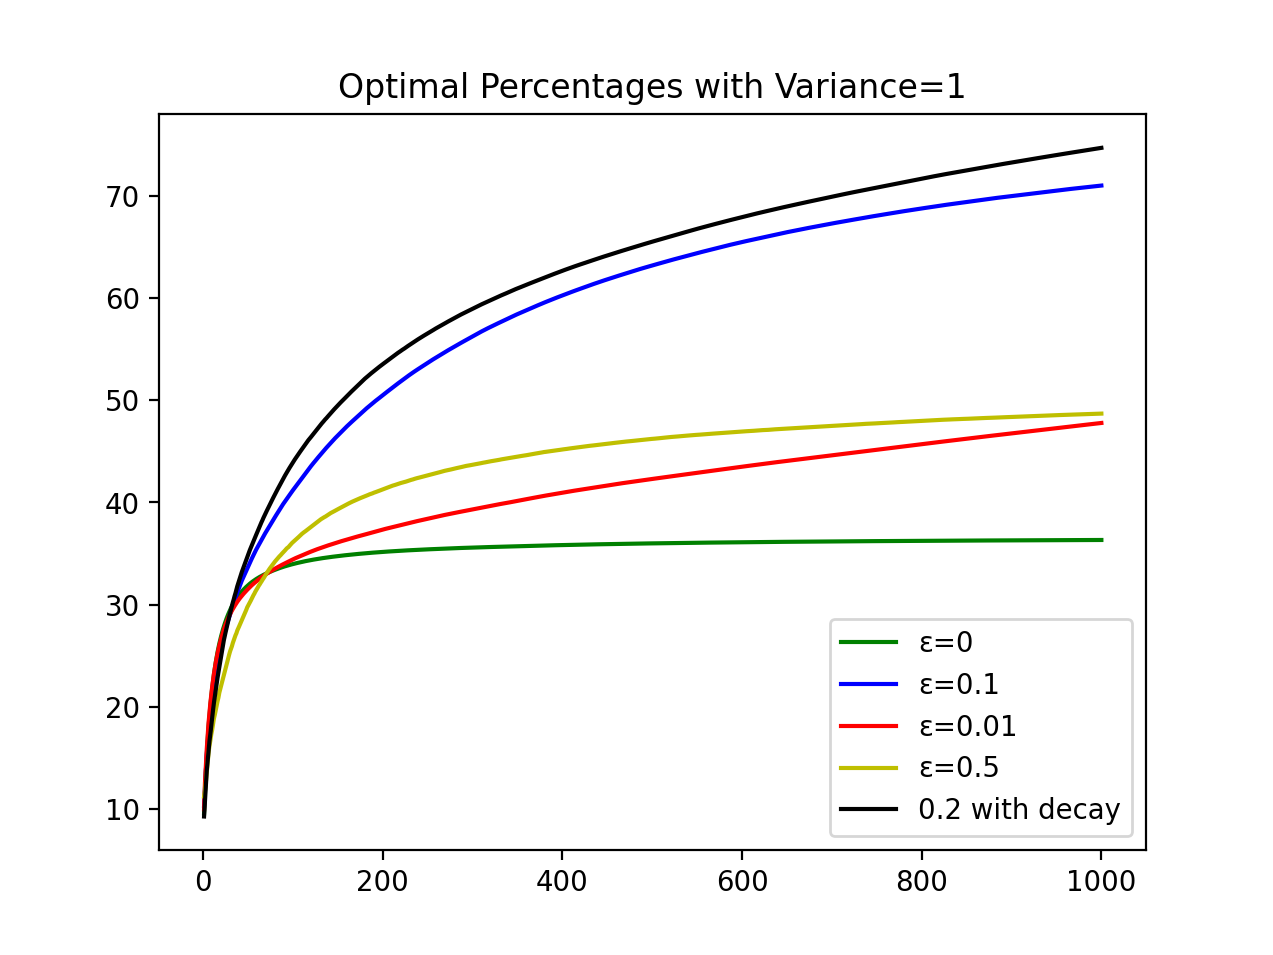
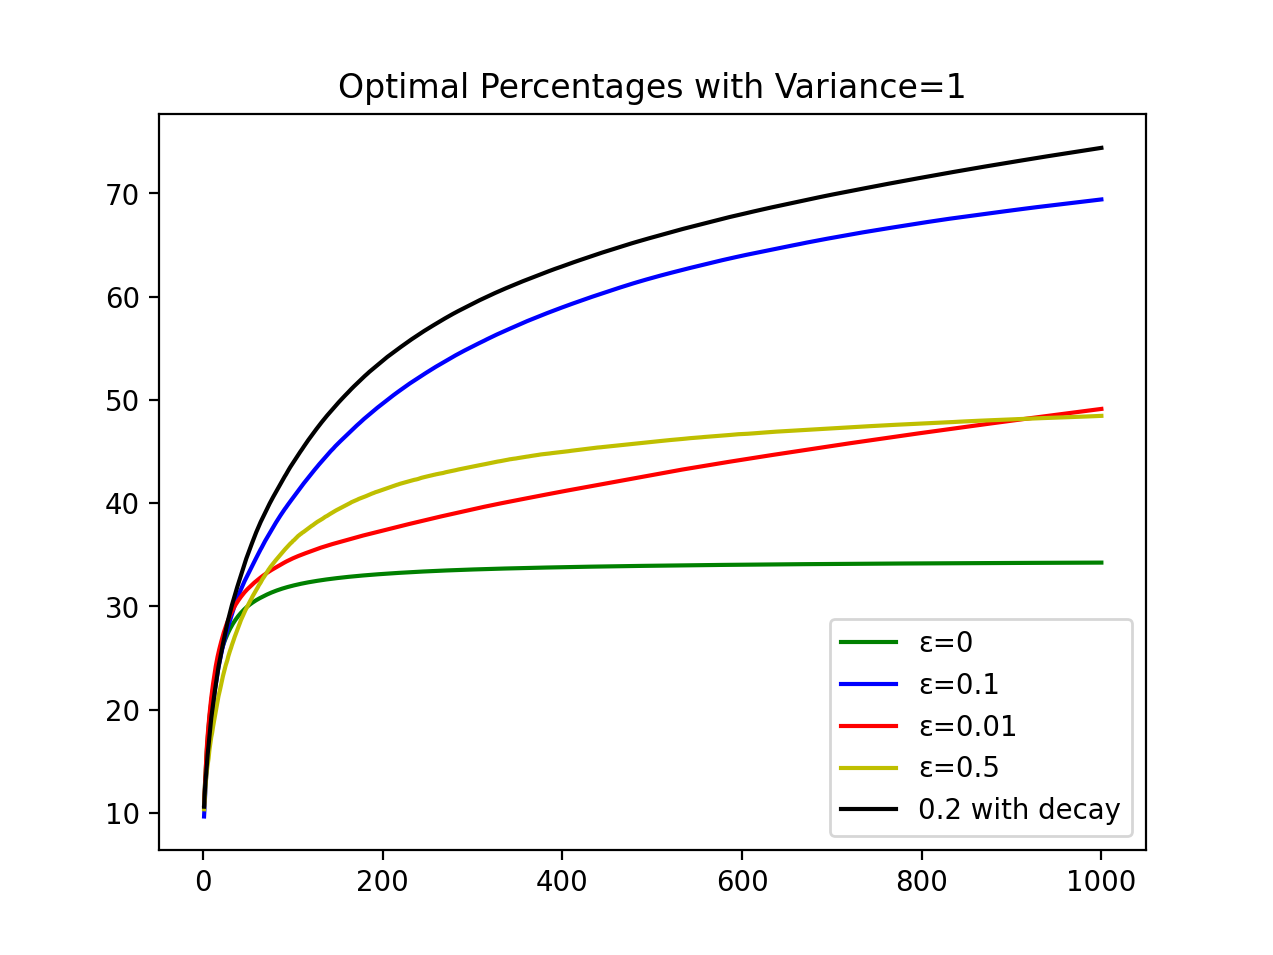
explore first steps

diff --git a/experiments/exploration_exploitation_bandit_stationary.py b/experiments/exploration_exploitation_bandit_stationary.py
@@ -2,6 +2,8 @@ import numpy as np
 import matplotlib.pyplot as plt
 
 
+VARIANCES = [1, 0, 5, 10]
+
 EPSILONS = {
     0: {"color": "-g"},
     0.1: {"color": "-b"},
@@ -14,8 +16,7 @@ EPSILONS = {
 def epsilon_greedy_action(action_values: np.array, epsilon: float) -> int:
     if np.random.random() <= epsilon:
         return np.random.choice(10)
-    else:
-        return np.argmax(action_values)
+    return np.argmax(action_values)
 
 
 def get_epsilons(epsilon, decay, steps):
@@ -40,7 +41,10 @@ def run_single_experiment(epsilon: float, decay=False, variance=1):
     optimal_action_percentage = []
     for i in range(steps):
         epsilon = epsilons[i] if epsilons else epsilon
-        selected_action = epsilon_greedy_action(action_values, epsilon)
+        if i < 10 and variance == 0 and epsilon == 0:
+            selected_action = np.random.choice(10)
+        else:
+            selected_action = epsilon_greedy_action(action_values, epsilon)
         if selected_action == optimal_action:
             optimal_action_count += 1
         actual_reward = np.random.normal(mu[selected_action], variance)
@@ -118,4 +122,5 @@ def run_and_plot_results(variance=1):
 
 
 if __name__ == "__main__":
-    run_and_plot_results()
+    for variance in VARIANCES:
+        run_and_plot_results(variance)
